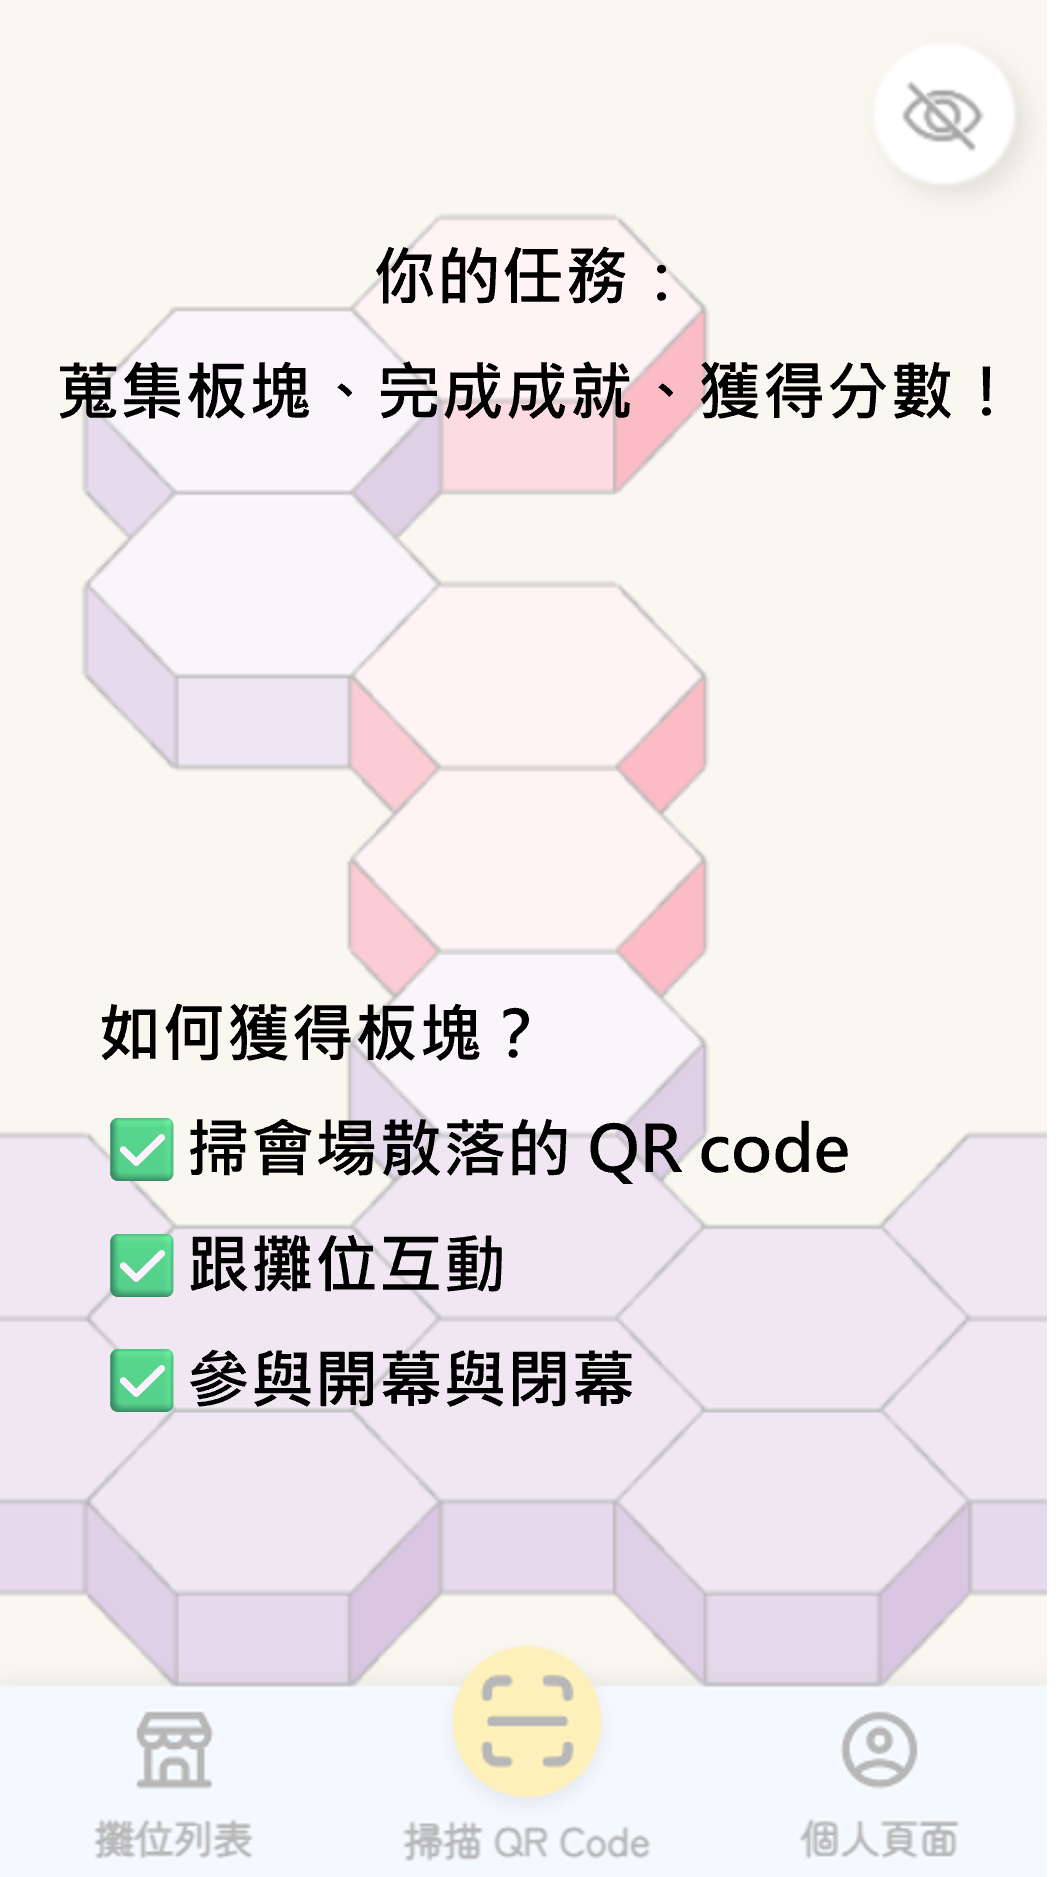
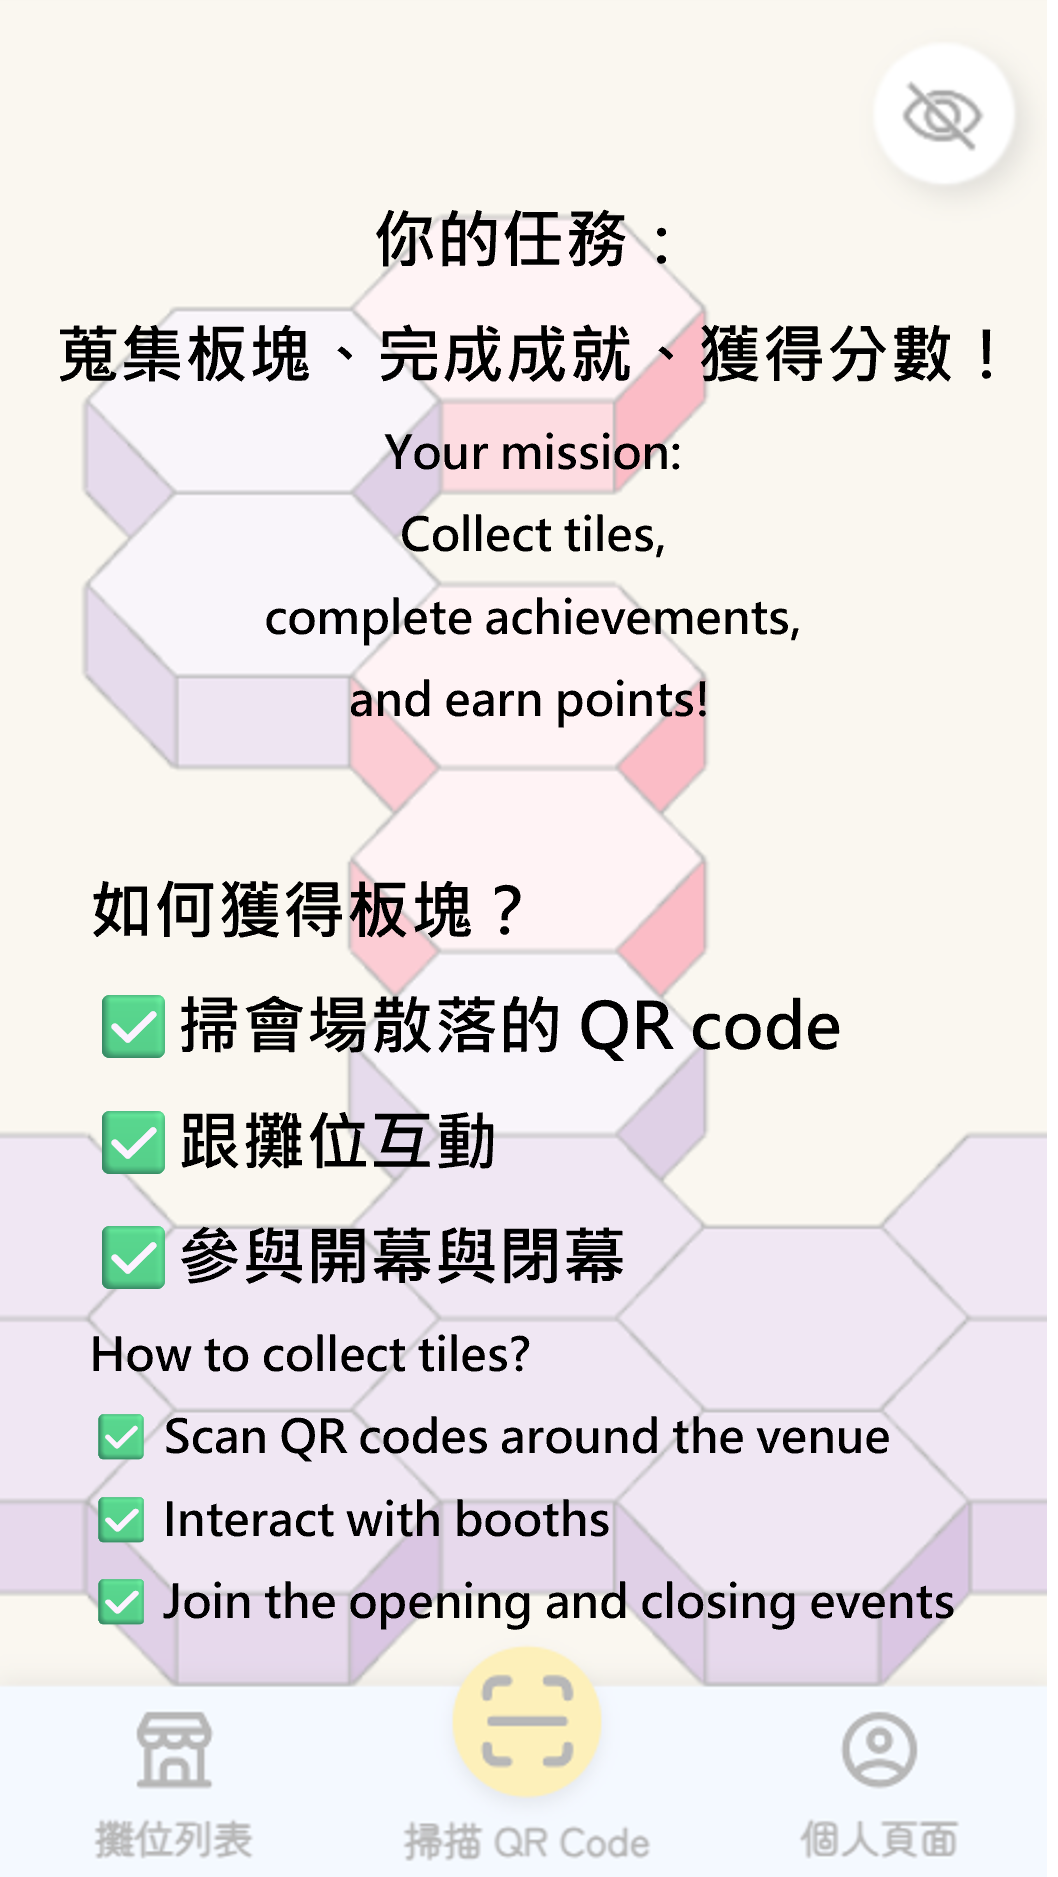
fix tutorial has English version

diff --git a/src/game/scenes/Game.ts b/src/game/scenes/Game.ts
@@ -82,6 +82,7 @@ export class Game extends Scene {
   }
 
   private createInitialTiles() {
+    GameData.path = []
     const spacingX = GameData.hexWidth * 1.5
     const spacingY = GameData.hexHeight * 0.5
     const cols = GameData.screenWidth / spacingX + 1
@@ -267,14 +268,8 @@ export class Game extends Scene {
     } else {
       xCoordinate = 0
     }
-
-    if (GameData.path.length === 1) { 
-      xCoordinate = 0
-    }
     
     try {
-      console.log("boothId: ", boothId)
-      console.log("xCoordinate: ", xCoordinate)
       const apiResponse = await postCollect(boothId, xCoordinate)
       console.log('API 呼叫成功，回傳資料：', apiResponse)
       alert('板塊收集成功！')
